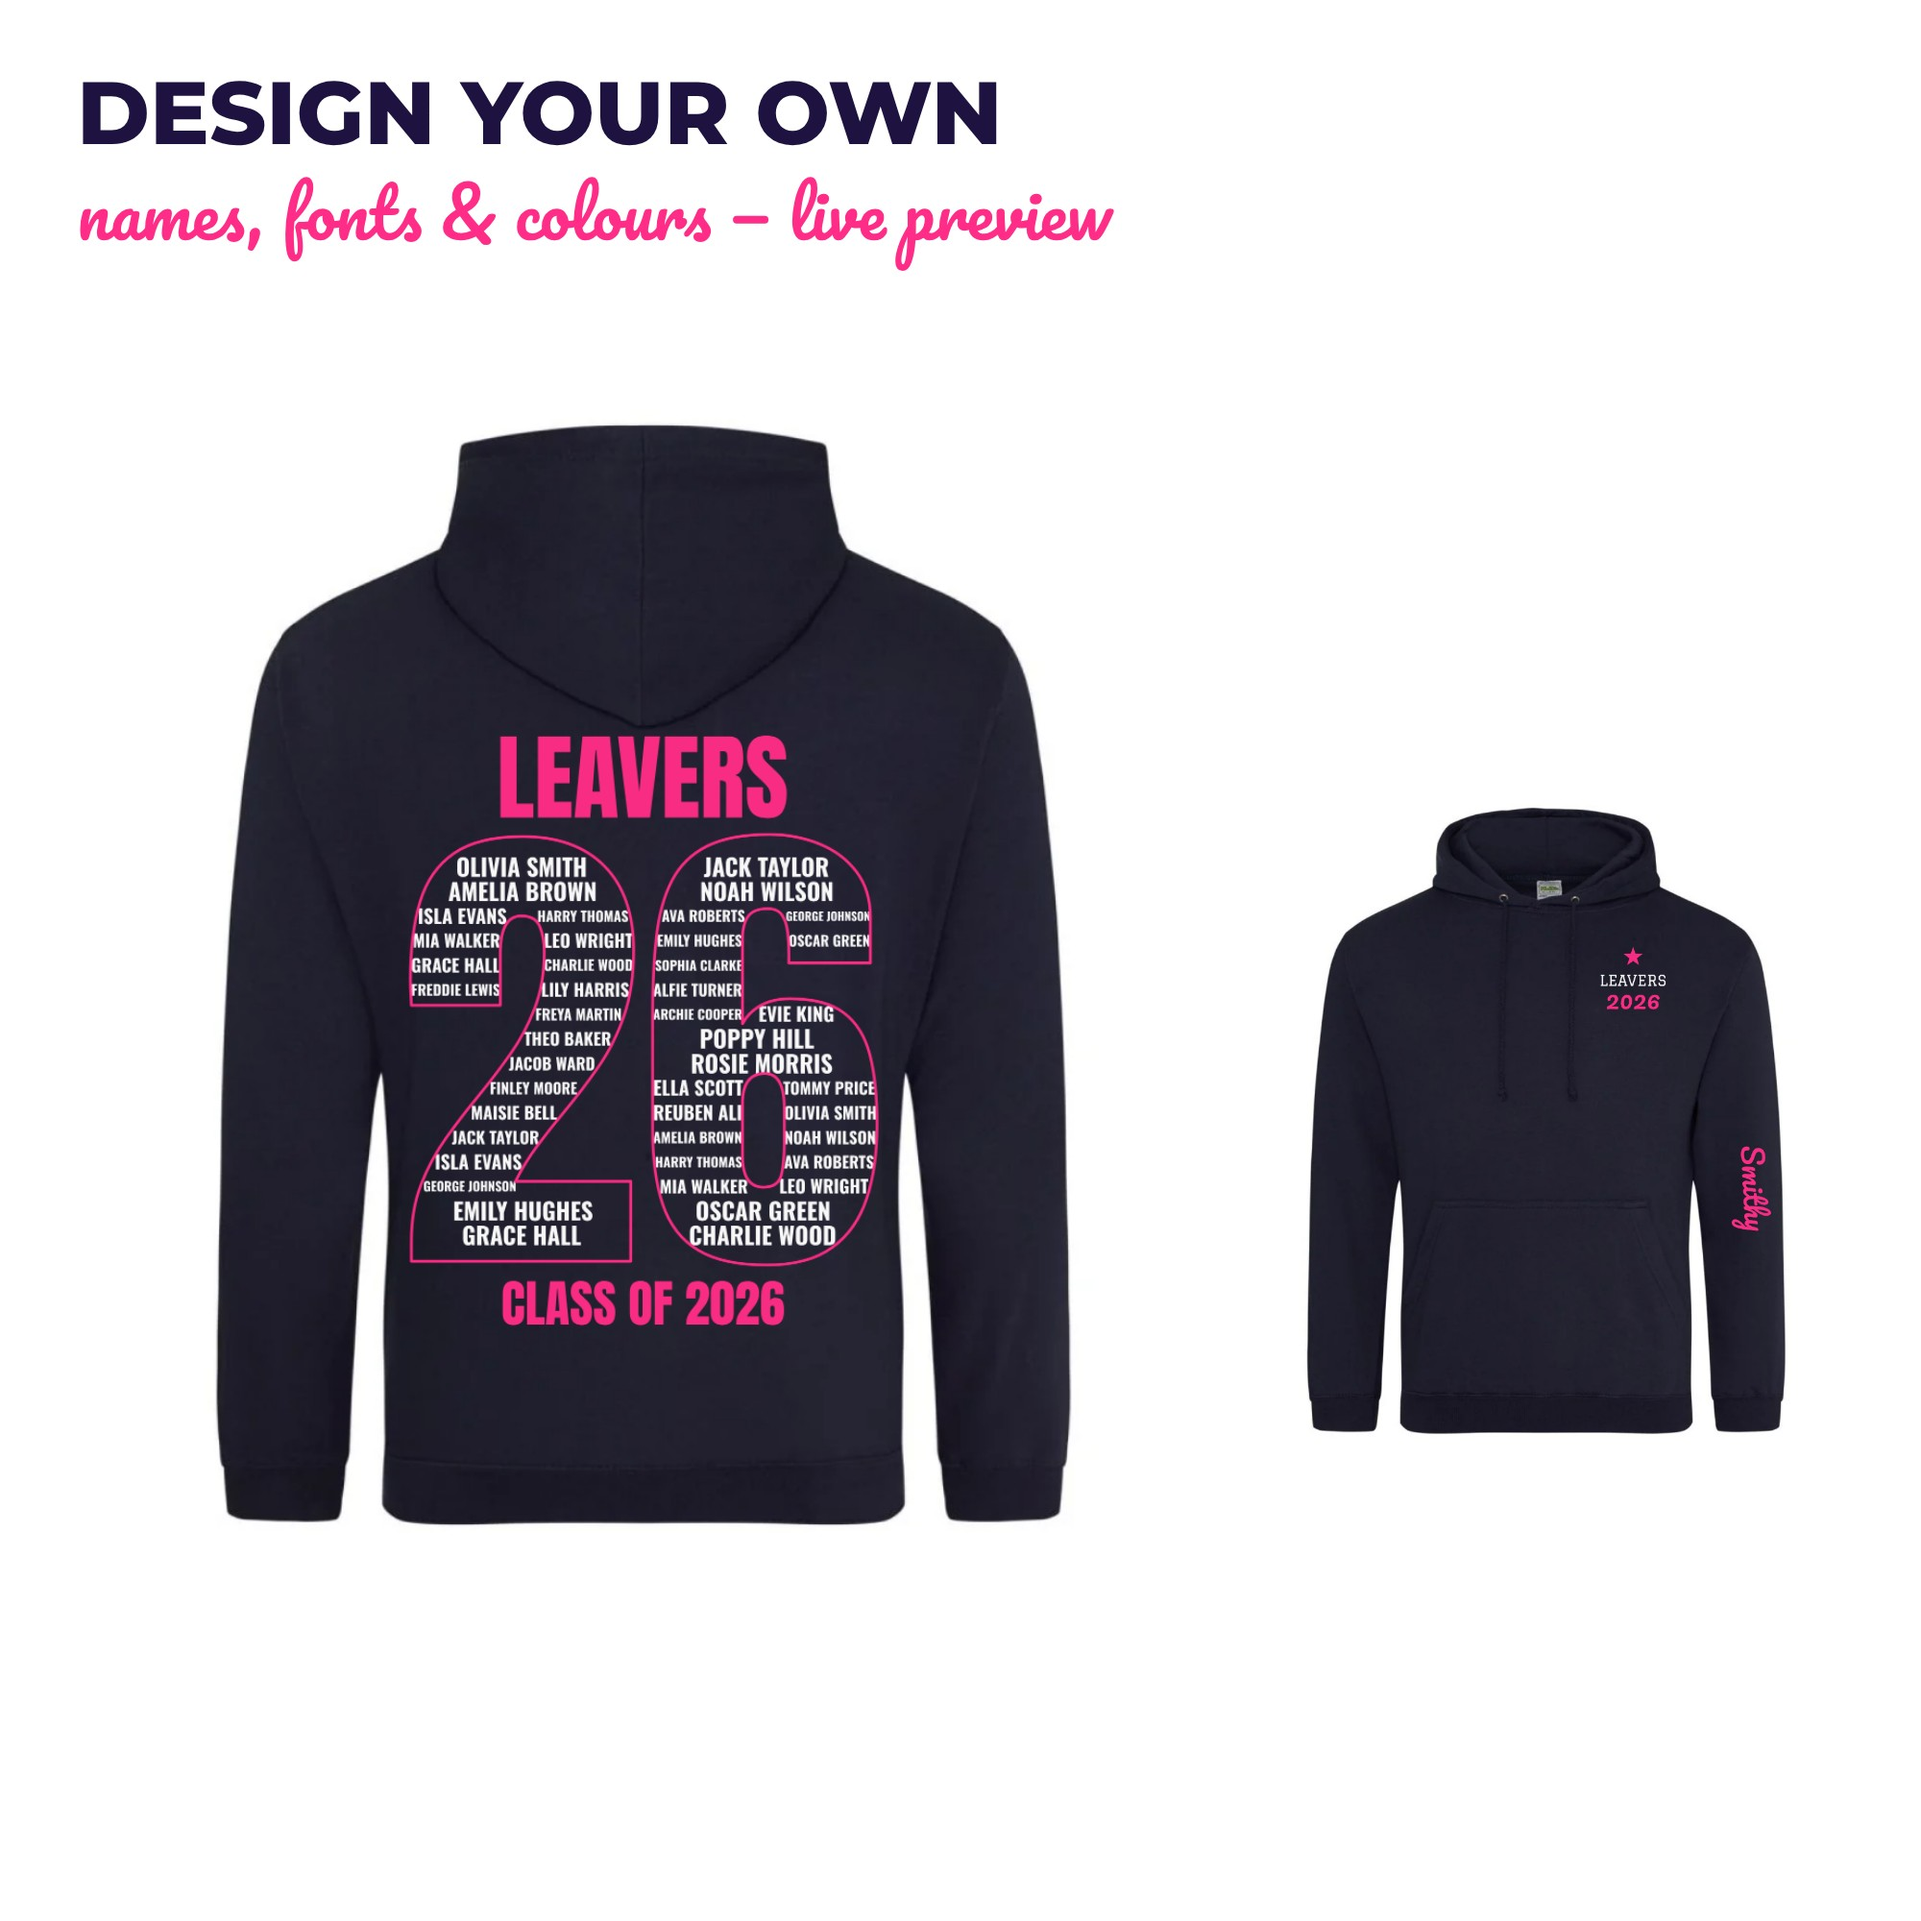
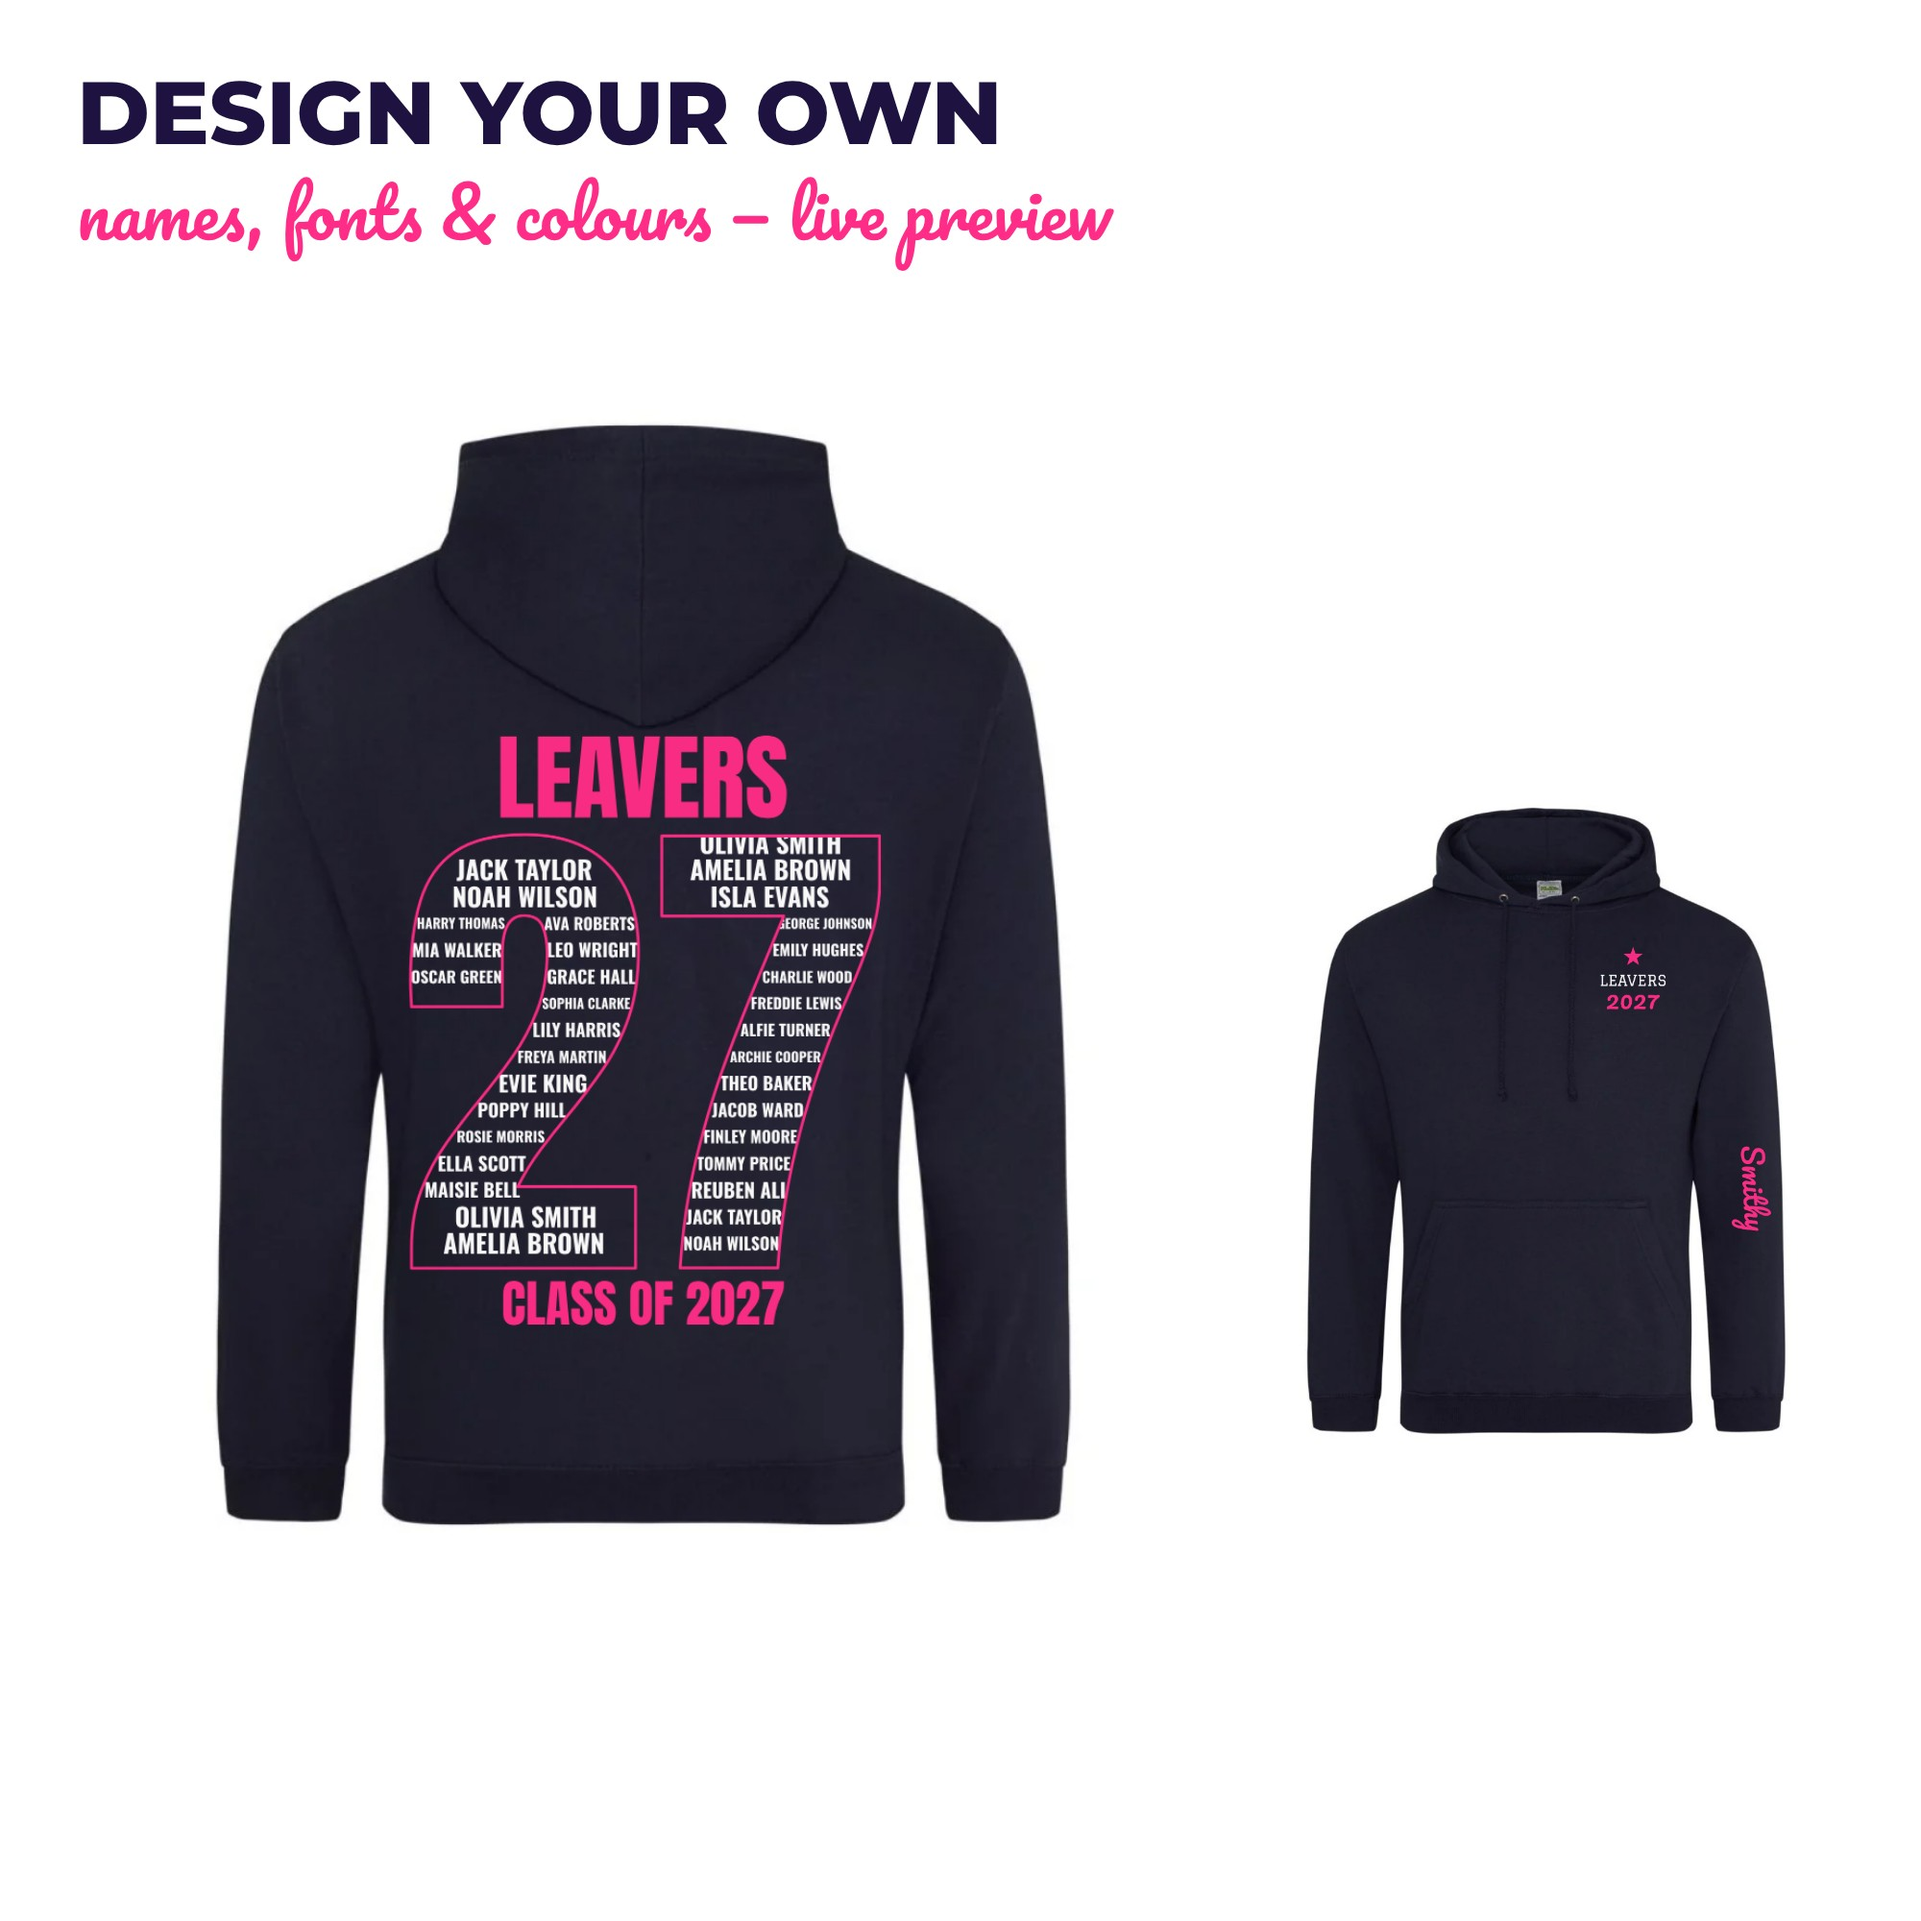
Default year 27 / 2027; product images re-rendered
Claude-Session: https://claude.ai/code/session_01MSgM9i85HvwumTiwg3Y5AK

Changed region(s): [[0.217, 0.434, 0.465, 0.682]]

diff --git a/leavers-designer/theme/assets/leavers-engine.js b/leavers-designer/theme/assets/leavers-engine.js
@@ -287,7 +287,7 @@
       back: {
         template: 'year-names',
         title: 'LEAVERS',
-        year: '26',
+        year: '27',
         school: 'YOUR SCHOOL NAME',
         names: SAMPLE_NAMES.slice(),
         nameCase: 'upper',
@@ -300,7 +300,7 @@
         outline: true,
         logo: false
       },
-      front: { style: 'chest-text', line1: 'LEAVERS', line2: '2026', icon: 'star', font: 'Graduate', logoUrl: '' },
+      front: { style: 'chest-text', line1: 'LEAVERS', line2: '2027', icon: 'star', font: 'Graduate', logoUrl: '' },
       personal: { position: 'sleeve', text: '', font: 'Pacifico' }
     };
   }
@@ -736,7 +736,7 @@
   /* ------------------------------------------------------------------ shapes */
 
   function yearShape(d, box) {
-    var font = d.back.displayFont, text = d.back.year || '26';
+    var font = d.back.displayFont, text = d.back.year || '27';
     return function (x) { drawFit(x, text, font, box, '#000'); };
   }
   // Heart and star are plain paths, so the same geometry fills the mask, clips the names and draws the outline.

diff --git a/leavers-designer/theme/assets/leavers-designer.js b/leavers-designer/theme/assets/leavers-designer.js
@@ -127,7 +127,7 @@
         '  <details class="ld-step" open><summary><span class="ld-step__n">3</span> Wording &amp; names</summary>' +
         '    <div class="ld-grid3">' +
         '      <label class="ld-field"><span>Heading</span><input type="text" maxlength="24" data-bind="back.title"></label>' +
-        '      <label class="ld-field"><span>Year</span><input type="text" maxlength="6" data-bind="back.year" placeholder="26 or 2026"></label>' +
+        '      <label class="ld-field"><span>Year</span><input type="text" maxlength="6" data-bind="back.year" placeholder="27 or 2027"></label>' +
         '      <label class="ld-field"><span>School / group name</span><input type="text" maxlength="40" data-bind="back.school"></label>' +
         '    </div>' +
         '    <div class="ld-field" data-names-field><span>Names for the back — one box per pupil <b data-name-count></b></span>' +
